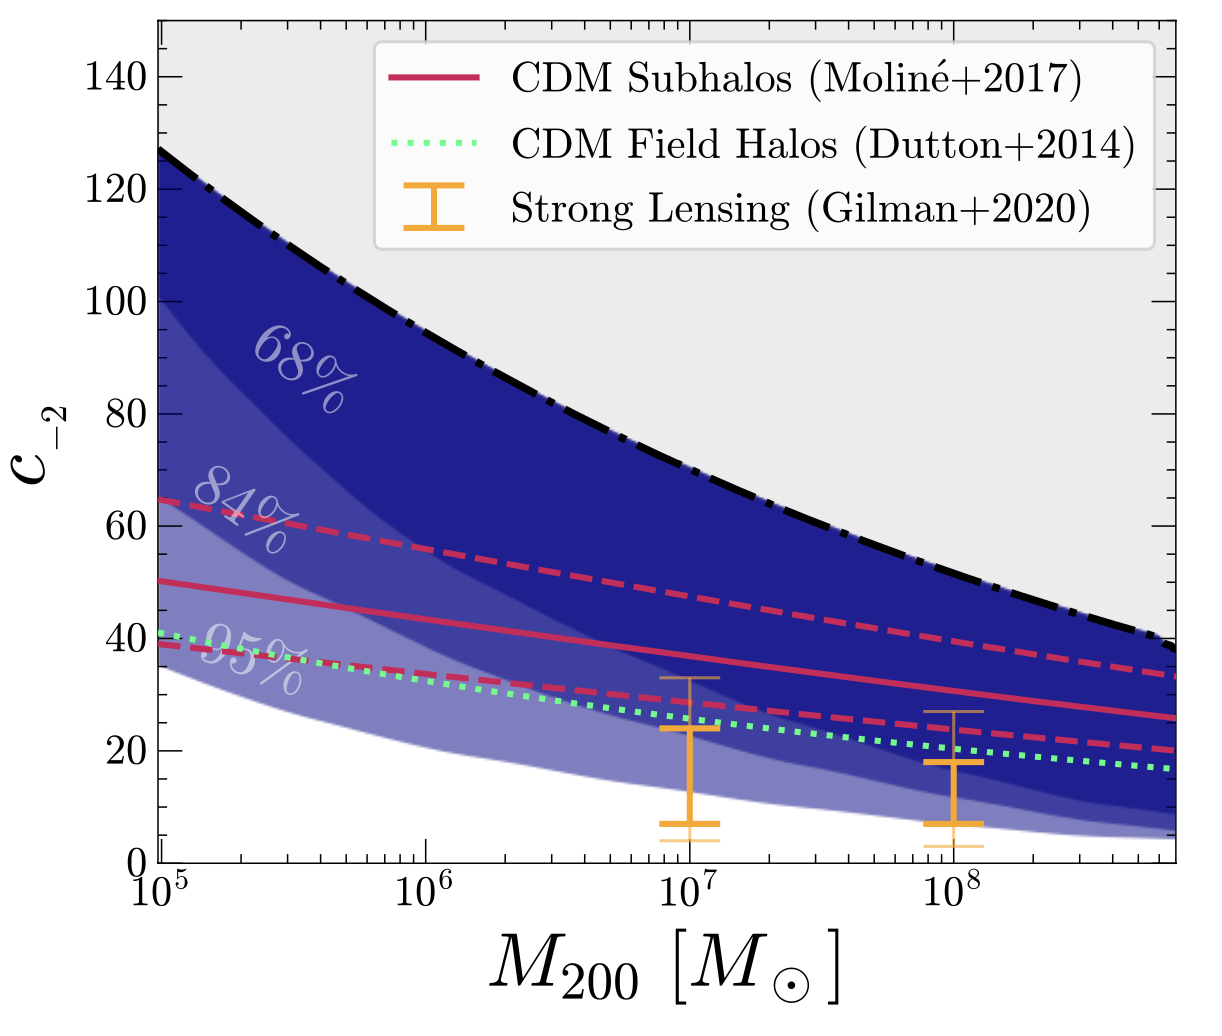
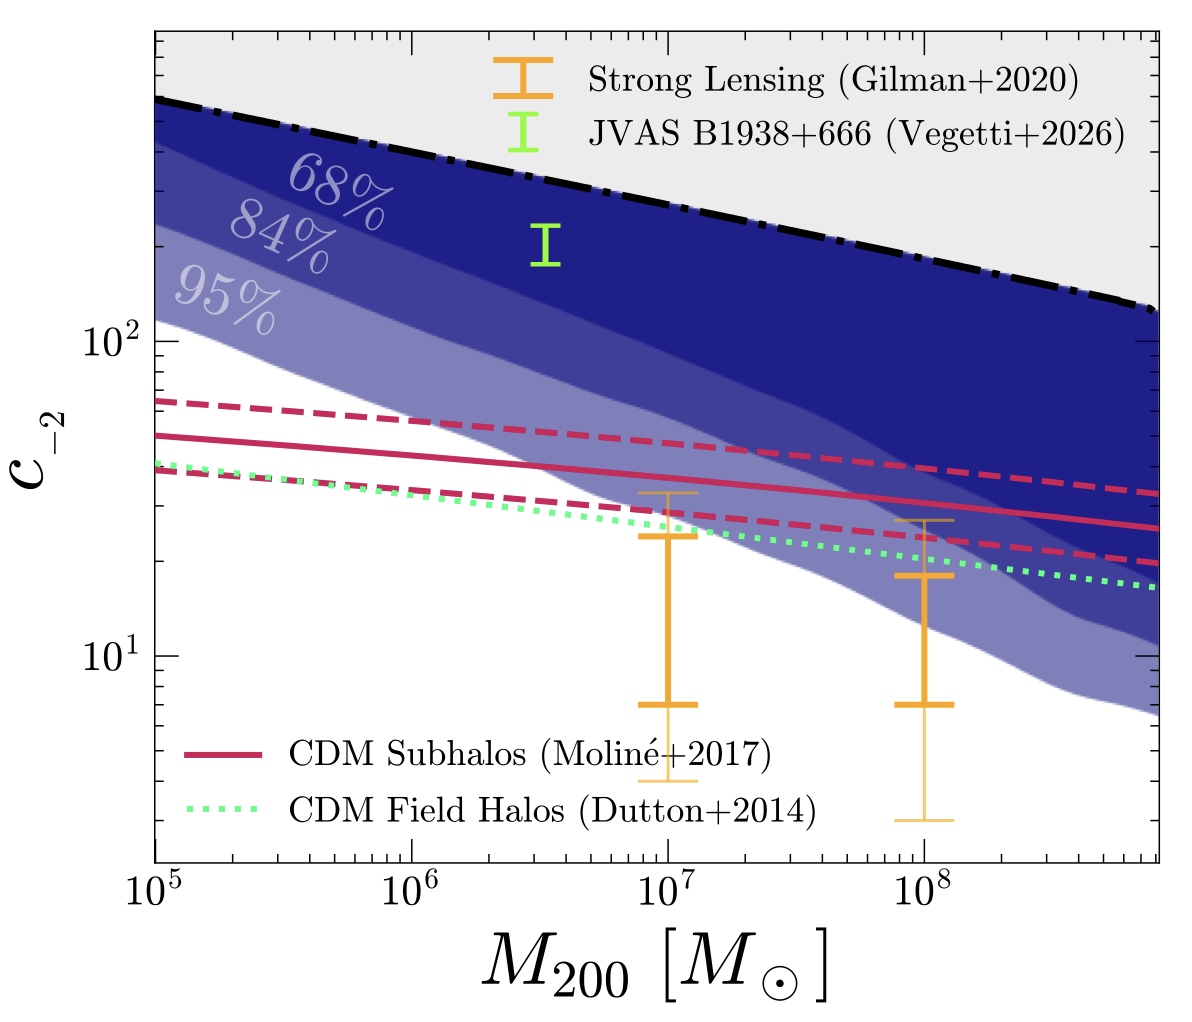
update

diff --git a/index.html b/index.html
@@ -16,7 +16,7 @@
 		<!-- Header -->
 			<section id="header">
 				<header>
-					<span class="image avatar"><img src="images/avatar.jpg" alt="" /></span>
+					<span class="image avatar"><img src="images/avatar.png" alt="" /></span>
 					<h1 id="logo"><a href="#">Jacob Nibauer</a></h1>
 					<p>PhD Candidate, Princeton University,<br />
 						Department of Astrophysical Sciences,<br />
@@ -584,8 +584,8 @@ print 'It took ' + i + ' iterations to sort the deck.';</code></pre>
 											</div>
 										</div>
 										<h5>Left &amp; Right</h5>
-										<p><span class="image left"><img src="images/avatar.jpg" alt="" /></span>Fringilla nisl. Donec accumsan interdum nisi, quis tincidunt felis sagittis eget. tempus euismod. Vestibulum ante ipsum primis in faucibus vestibulum. Blandit adipiscing eu felis iaculis volutpat ac adipiscing accumsan eu faucibus. Integer ac pellentesque praesent tincidunt felis sagittis eget. tempus euismod. Vestibulum ante ipsum primis in faucibus vestibulum. Blandit adipiscing eu felis iaculis volutpat ac adipiscing accumsan eu faucibus. Integer ac pellentesque praesent. Donec accumsan interdum nisi, quis tincidunt felis sagittis eget. tempus euismod. Vestibulum ante ipsum primis in faucibus vestibulum. Blandit adipiscing eu felis iaculis volutpat ac adipiscing accumsan eu faucibus. Integer ac pellentesque praesent tincidunt felis sagittis eget. tempus euismod. Vestibulum ante ipsum primis in faucibus vestibulum. Blandit adipiscing eu felis iaculis volutpat ac adipiscing accumsan eu faucibus. Integer ac pellentesque praesent.</p>
-										<p><span class="image right"><img src="images/avatar.jpg" alt="" /></span>Fringilla nisl. Donec accumsan interdum nisi, quis tincidunt felis sagittis eget. tempus euismod. Vestibulum ante ipsum primis in faucibus vestibulum. Blandit adipiscing eu felis iaculis volutpat ac adipiscing accumsan eu faucibus. Integer ac pellentesque praesent tincidunt felis sagittis eget. tempus euismod. Vestibulum ante ipsum primis in faucibus vestibulum. Blandit adipiscing eu felis iaculis volutpat ac adipiscing accumsan eu faucibus. Integer ac pellentesque praesent. Donec accumsan interdum nisi, quis tincidunt felis sagittis eget. tempus euismod. Vestibulum ante ipsum primis in faucibus vestibulum. Blandit adipiscing eu felis iaculis volutpat ac adipiscing accumsan eu faucibus. Integer ac pellentesque praesent tincidunt felis sagittis eget. tempus euismod. Vestibulum ante ipsum primis in faucibus vestibulum. Blandit adipiscing eu felis iaculis volutpat ac adipiscing accumsan eu faucibus. Integer ac pellentesque praesent.</p>
+										<p><span class="image left"><img src="images/avatar.png" alt="" /></span>Fringilla nisl. Donec accumsan interdum nisi, quis tincidunt felis sagittis eget. tempus euismod. Vestibulum ante ipsum primis in faucibus vestibulum. Blandit adipiscing eu felis iaculis volutpat ac adipiscing accumsan eu faucibus. Integer ac pellentesque praesent tincidunt felis sagittis eget. tempus euismod. Vestibulum ante ipsum primis in faucibus vestibulum. Blandit adipiscing eu felis iaculis volutpat ac adipiscing accumsan eu faucibus. Integer ac pellentesque praesent. Donec accumsan interdum nisi, quis tincidunt felis sagittis eget. tempus euismod. Vestibulum ante ipsum primis in faucibus vestibulum. Blandit adipiscing eu felis iaculis volutpat ac adipiscing accumsan eu faucibus. Integer ac pellentesque praesent tincidunt felis sagittis eget. tempus euismod. Vestibulum ante ipsum primis in faucibus vestibulum. Blandit adipiscing eu felis iaculis volutpat ac adipiscing accumsan eu faucibus. Integer ac pellentesque praesent.</p>
+										<p><span class="image right"><img src="images/avatar.png" alt="" /></span>Fringilla nisl. Donec accumsan interdum nisi, quis tincidunt felis sagittis eget. tempus euismod. Vestibulum ante ipsum primis in faucibus vestibulum. Blandit adipiscing eu felis iaculis volutpat ac adipiscing accumsan eu faucibus. Integer ac pellentesque praesent tincidunt felis sagittis eget. tempus euismod. Vestibulum ante ipsum primis in faucibus vestibulum. Blandit adipiscing eu felis iaculis volutpat ac adipiscing accumsan eu faucibus. Integer ac pellentesque praesent. Donec accumsan interdum nisi, quis tincidunt felis sagittis eget. tempus euismod. Vestibulum ante ipsum primis in faucibus vestibulum. Blandit adipiscing eu felis iaculis volutpat ac adipiscing accumsan eu faucibus. Integer ac pellentesque praesent tincidunt felis sagittis eget. tempus euismod. Vestibulum ante ipsum primis in faucibus vestibulum. Blandit adipiscing eu felis iaculis volutpat ac adipiscing accumsan eu faucibus. Integer ac pellentesque praesent.</p>
 									</section>
 
 								</div>
